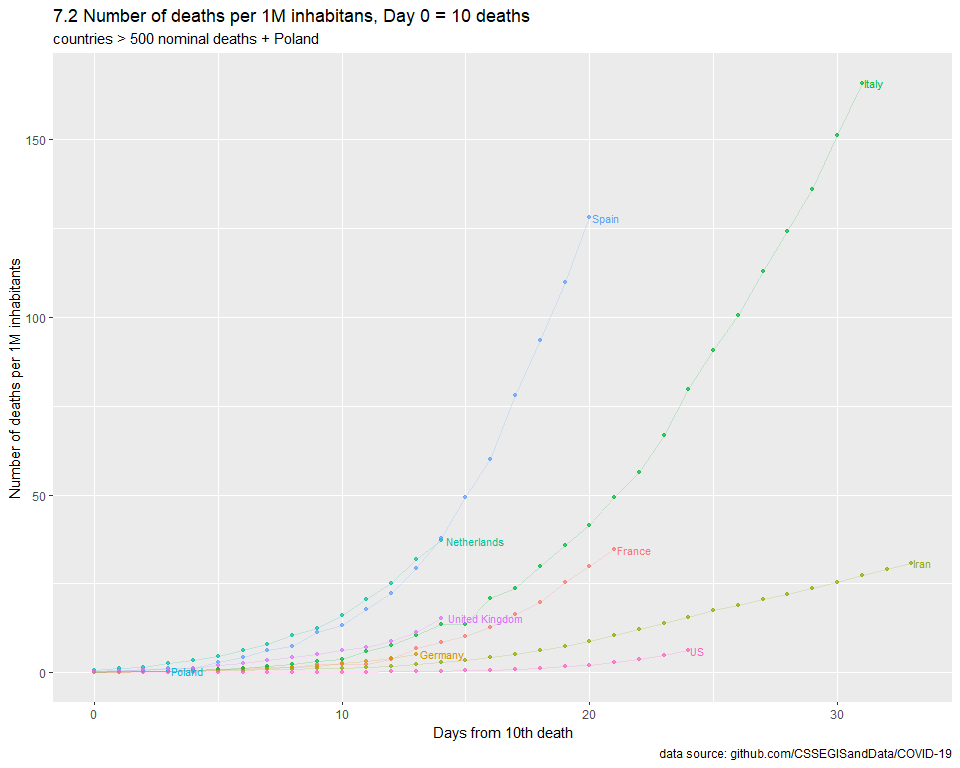
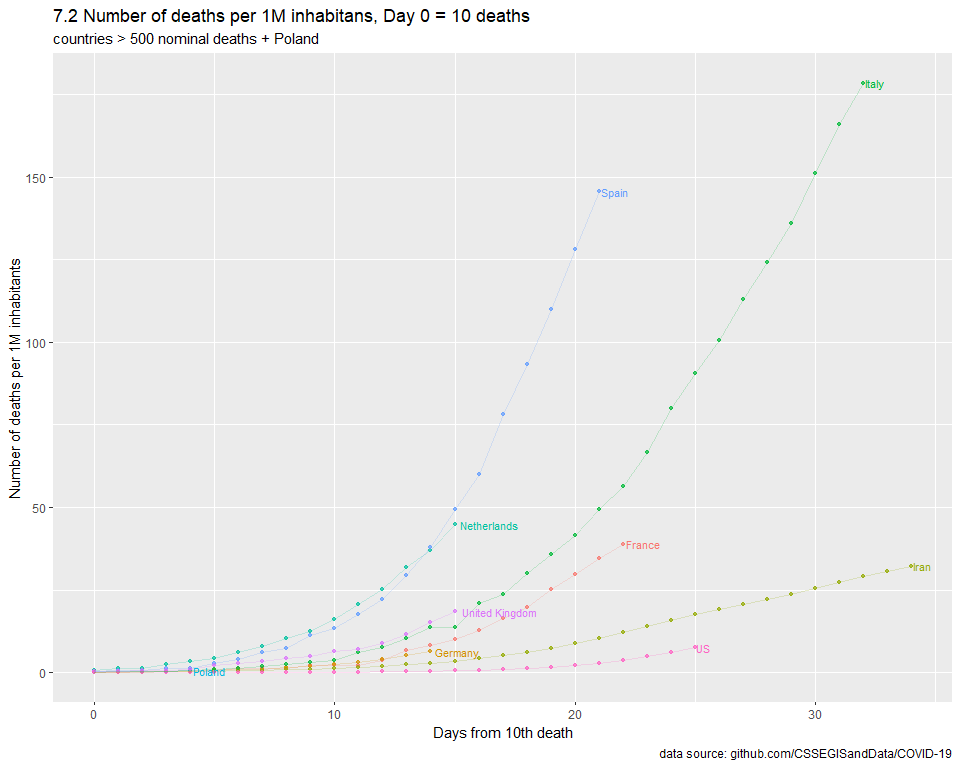
data update 29.03

diff --git a/main.md b/main.md
@@ -12,7 +12,7 @@ MIN_VALUE <- 5000
 MIN_VALUE_DEATHS <- 500
 MIN_DATE_TESTS <- "2020-03-10"
 MIN_DATE <- "2020-03-20"
-TODAY    <- "2020-03-28"
+TODAY    <- "2020-03-29"
 TAKE_LOG <- TRUE
 ```
 
